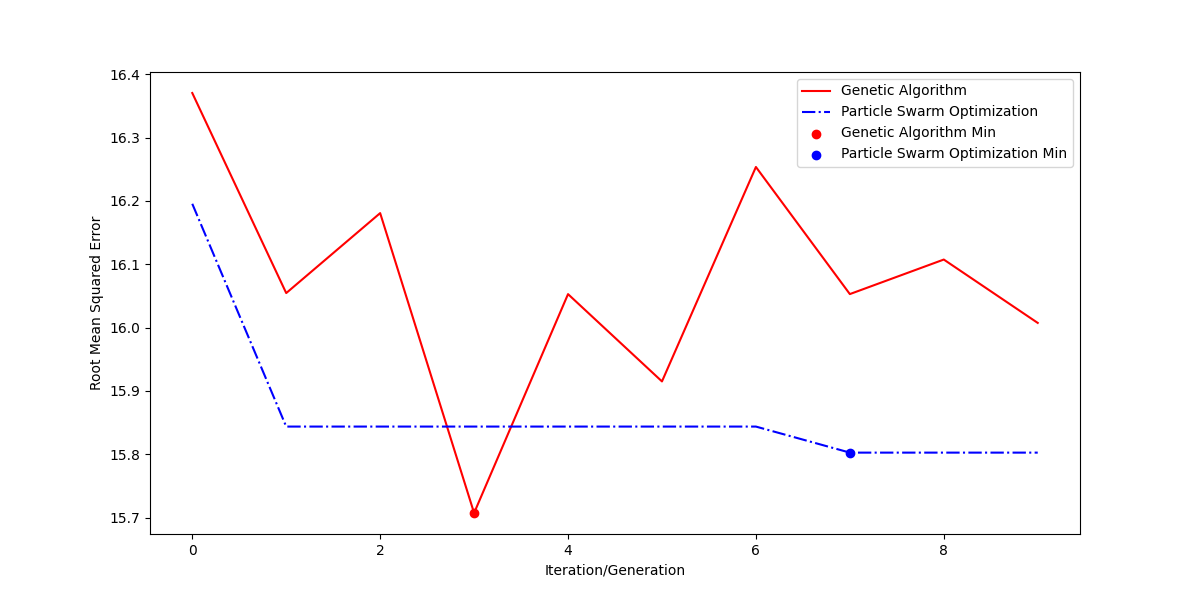
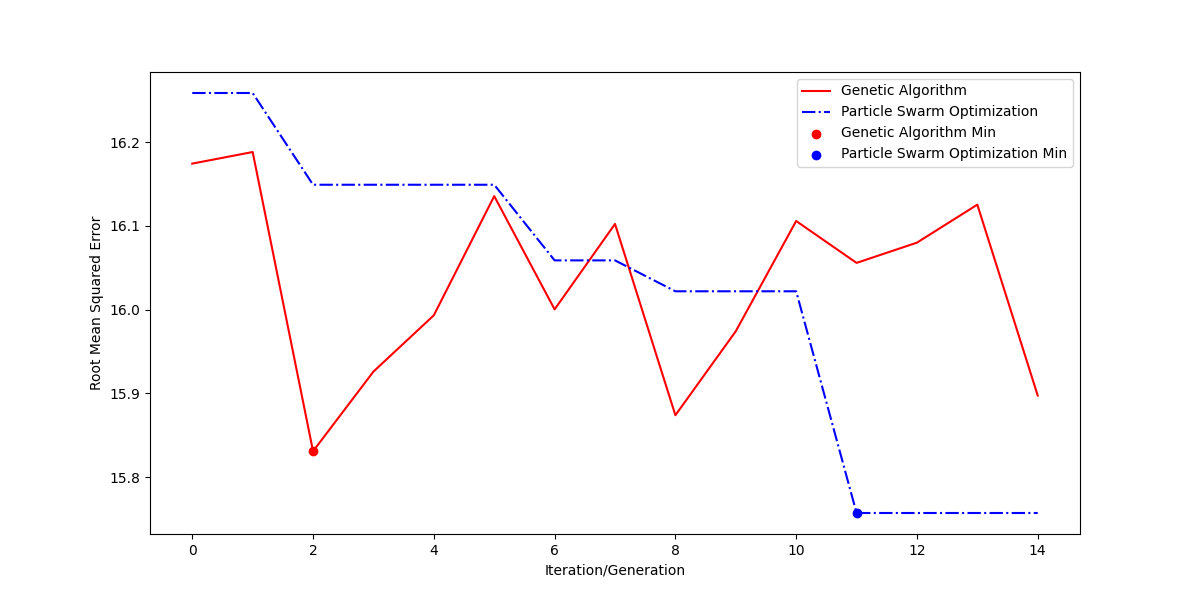
final optimize

diff --git a/ga_optimizer.py b/ga_optimizer.py
@@ -18,12 +18,12 @@ actual_output = actual_output.to_numpy()  # Selects all rows and the last three 
 num_rows = len(inputs)
 # print("Number of rows:", num_rows)
 
-poisson_min = 0
-poisson_max = 0.5
+poisson_min = 0.01
+poisson_max = 0.499
 youngs_min = 0
 youngs_max = 25000
-num_generations = 10
-mutation_rate = 0.4
+num_generations = 15
+mutation_rate = 0.3
 population_size = 50
 
 def fitness_function(individual: tuple, sample_size: int = 500) -> float:
@@ -119,9 +119,11 @@ def mutation(individual: np.array, mutation_rate: float =0.3) -> np.array:
     '''
     mutated = individual
     if np.random.uniform(0, 1) < mutation_rate:
-        mutated[0] = np.random.uniform(poisson_min, poisson_max)
+        mutated[0] = individual[0] + np.random.uniform(-poisson_max/2, poisson_max/2)
+        mutated[0] = np.clip(mutated[0], poisson_min, poisson_max)
     if np.random.uniform(0, 1) < mutation_rate:
-        mutated[1] = np.random.uniform(youngs_min, youngs_max)
+        mutated[1] = individual[1] + np.random.uniform(-youngs_max/10, youngs_max/10)
+        mutated[1] = np.clip(mutated[1], youngs_min, youngs_max)
     return mutated
 
 def genetic() -> None:
@@ -130,20 +132,21 @@ def genetic() -> None:
     '''
     population = np.random.uniform([poisson_min, youngs_min], [poisson_max, youngs_max], (population_size, 2))
     best_individuals = []
+    sample_size = 500
 
     with open('genetic.log', 'w') as f:
         f.write('Genetic Algorithm\n')
         f.write('-----------------\n')
         f.write('Population size: ' + str(population_size) + '\n')
         f.write('Number of generations: ' + str(num_generations) + '\n')
-        f.write("sample_size: " + str(500) + "\n")
+        f.write("sample_size: " + str(sample_size) + "\n")
         f.write('----------------------------------------------\n')
         
         for g in range(num_generations):
             print("Generation:", g)
             f.write('Generation: ' + str(g))
             f.write('\t')
-            fitness_values = np.array([fitness_function(individual) for individual in population])
+            fitness_values = np.array([fitness_function(individual, sample_size=sample_size) for individual in population])
             best_individual = population[np.argmin(fitness_values)]
             best_individuals.append((list(best_individual), np.min(fitness_values))) # Store the best individual of each generation
             f.write('Best individual: ' + str(best_individual))
@@ -169,6 +172,8 @@ def genetic() -> None:
         print("Best individual:", best)
         f.write('=============================================')
         f.write('\n')
-        f.write('Overall Best individual: ' + str(best))
+        f.write('Overall Best individual: ' + str(best[0]))
+        f.write('\t')
+        f.write('Fitness: ' + str(best[1]))
         f.close()
 genetic()

diff --git a/pso_optimizer.py b/pso_optimizer.py
@@ -91,12 +91,12 @@ def pso_portfolio_optimization(n_particles: int, n_iterations: int, sample_size:
     global_best_position = Particle().position
     global_best_score = float('inf')
 
-    with open('partical_swarm.log', 'w') as f:
+    with open('particle_swarm.log', 'w') as f:
         f.write("Particle Swarm Optimization\n")
         f.write("---------------------------\n")
         f.write("Number of Particles: " + str(n_particles) + "\n")
         f.write("Number of Iterations: " + str(n_iterations) + "\n")
-        f.write("sample_size: " + sample_size + "\n")
+        f.write("sample_size: " + str(sample_size) + "\n")
         f.write("----------------------------------------------\n")
         # PSO parameters
         w = 0.8  # Inertia weight: how much particles are influenced by their own direction
@@ -132,9 +132,9 @@ def pso_portfolio_optimization(n_particles: int, n_iterations: int, sample_size:
 
 # Run the PSO algorithm
 n_particles = 50  # Number of particles
-n_iterations = 10  # Number of iterations
-poisson_min = 0
-poisson_max = 0.5
+n_iterations = 15  # Number of iterations
+poisson_min = 0.01
+poisson_max = 0.499
 youngs_min = 0
 youngs_max = 25000
 

diff --git a/results_testing.py b/results_testing.py
@@ -101,5 +101,5 @@ pso, pso_best = data_import('particle_swarm.log')
 gen_rmse = fitness_function(gen_best)
 pso_rmse = fitness_function(pso_best)
 
-print("Genetic Algorithm RMSE: ", gen_rmse) #individual:  (0.09326696158645303, 21054.42434106176)      fitness:  16.42782119208754
-print("Particle Swarm Optimization RMSE: ", pso_rmse) #individual:  (0.070355302, 17692.356)      fitness:  16.410642895850238
+print("Genetic Algorithm RMSE: ", gen_rmse) #individual:  (0.1742459030014992, 17381.496940515673)      fitness:  16.473918397753092
+print("Particle Swarm Optimization RMSE: ", pso_rmse) #individual:  (0.0821706941, 15997.6155)      fitness:  16.4248457275142

diff --git a/leg_simulate.py b/leg_simulate.py
@@ -6,9 +6,6 @@ from stlib3.physics.constraints import FixedBox
 from softrobots.actuators import PullingCable
 from stlib3.physics.collision import CollisionMesh
 from splib3.loaders import loadPointListFromFile
-from SofaRuntime import Timer
-import random
-import pandas as pd
 import numpy as np
 
 USE_GUI = False
